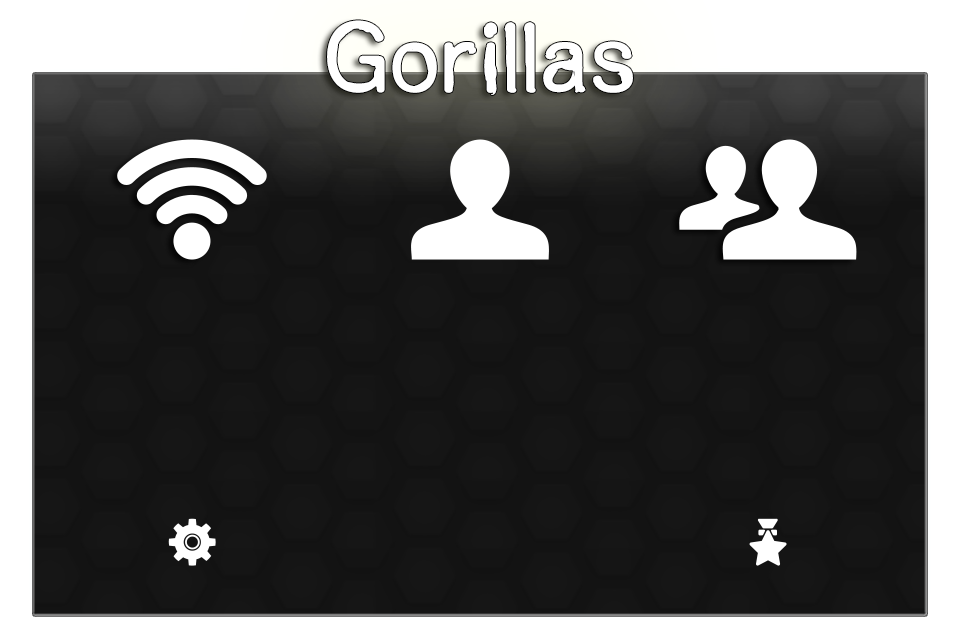
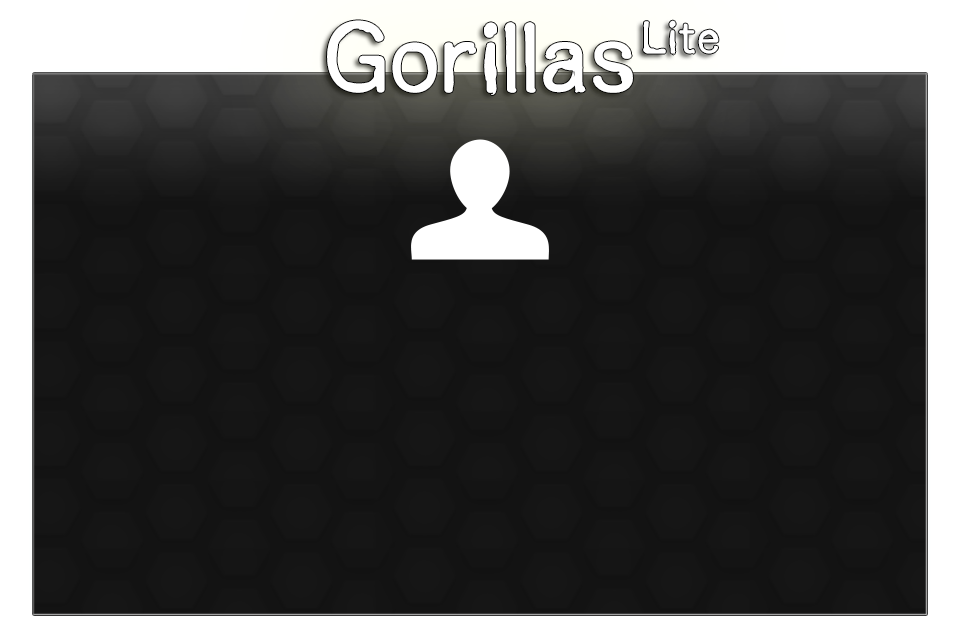
Quick and dirty Lite app that won't be maintained anymore, to redirect users to main Gorillas.

diff --git a/Gorillas/MainMenuLayer.m b/Gorillas/MainMenuLayer.m
@@ -58,26 +58,26 @@
 - (void)doLoad {
 
     self.background = [CCSprite spriteWithFile:@"menu-main.png"];
-    self.itemCounts = @[ @1, @3, @1, @1, @1, @3 ];
+    self.itemCounts = @[ @1, @1, @1, @1, @1, @1 ];
     self.items = @[
             // Row 1
             [PearlCCMenuItemSpacer spacerSmall],
-            multiPlayerI = [PearlCCMenuItemBlock itemWithSize:(NSUInteger)(80.0f * [PearlDeviceUtils uiScale]) target:self
-                                                     selector:@selector(startMulti:)],
+//            multiPlayerI = [PearlCCMenuItemBlock itemWithSize:(NSUInteger)(80.0f * [PearlDeviceUtils uiScale]) target:self
+//                                                     selector:@selector(startMulti:)],
             singlePlayerI = [PearlCCMenuItemBlock itemWithSize:(NSUInteger)(80.0f * [PearlDeviceUtils uiScale]) target:self
                                                       selector:@selector(startSingle:)],
-            hotSeatI = [PearlCCMenuItemBlock itemWithSize:(NSUInteger)(80.0f * [PearlDeviceUtils uiScale]) target:self
-                                                 selector:@selector(startHotSeat:)],
+//            hotSeatI = [PearlCCMenuItemBlock itemWithSize:(NSUInteger)(80.0f * [PearlDeviceUtils uiScale]) target:self
+//                                                 selector:@selector(startHotSeat:)],
             // Row 2
             configurationI = [CCMenuItemToggle itemWithTarget:self selector:@selector(gameConfiguration:)],
             descriptionT = [PearlCCMenuItemTitle itemWithString:@"description"],
             [PearlCCMenuItemSpacer spacerNormal],
             // Row 3
-            [PearlCCMenuItemBlock itemWithSize:(NSUInteger)(40.0f * [PearlDeviceUtils uiScale]) target:self
-                                      selector:@selector(settings:)],
+//            [PearlCCMenuItemBlock itemWithSize:(NSUInteger)(40.0f * [PearlDeviceUtils uiScale]) target:self
+//                                      selector:@selector(settings:)],
             [PearlCCMenuItemBlock itemWithSize:(NSUInteger)(40.0f * [PearlDeviceUtils uiScale])],
-            [PearlCCMenuItemBlock itemWithSize:(NSUInteger)(40.0f * [PearlDeviceUtils uiScale]) target:self
-                                      selector:@selector(scores:)],
+//            [PearlCCMenuItemBlock itemWithSize:(NSUInteger)(40.0f * [PearlDeviceUtils uiScale]) target:self
+//                                      selector:@selector(scores:)],
     ];
 
     if (self.appMenu) {

diff --git a/Gorillas/GorillasAppDelegate.m b/Gorillas/GorillasAppDelegate.m
@@ -152,6 +152,18 @@
                 [self showMainMenuForPlayers:playersToInvite];
             } );
     };
+
+    [PearlAlert showAlertWithTitle:@"Upgrade For Free"
+                           message:@"The full version of Gorillas is now FREE.\n"
+            @"Gorillas Lite will not be updated anymore.  You should upgrade and delete this app."
+                         viewStyle:UIAlertViewStyleDefault initAlert:nil
+                 tappedButtonBlock:^(UIAlertView *alert, NSInteger buttonIndex) {
+        if (buttonIndex == alert.cancelButtonIndex)
+            return;
+        
+        [UIApp openURL:[NSURL URLWithString:@"http://itunes.apple.com/app/id302275459"]];
+    }
+                       cancelTitle:@"Cancel" otherTitles:@"Upgrade!", nil];
 }
 
 - (GHUDLayer *)hudLayer {
